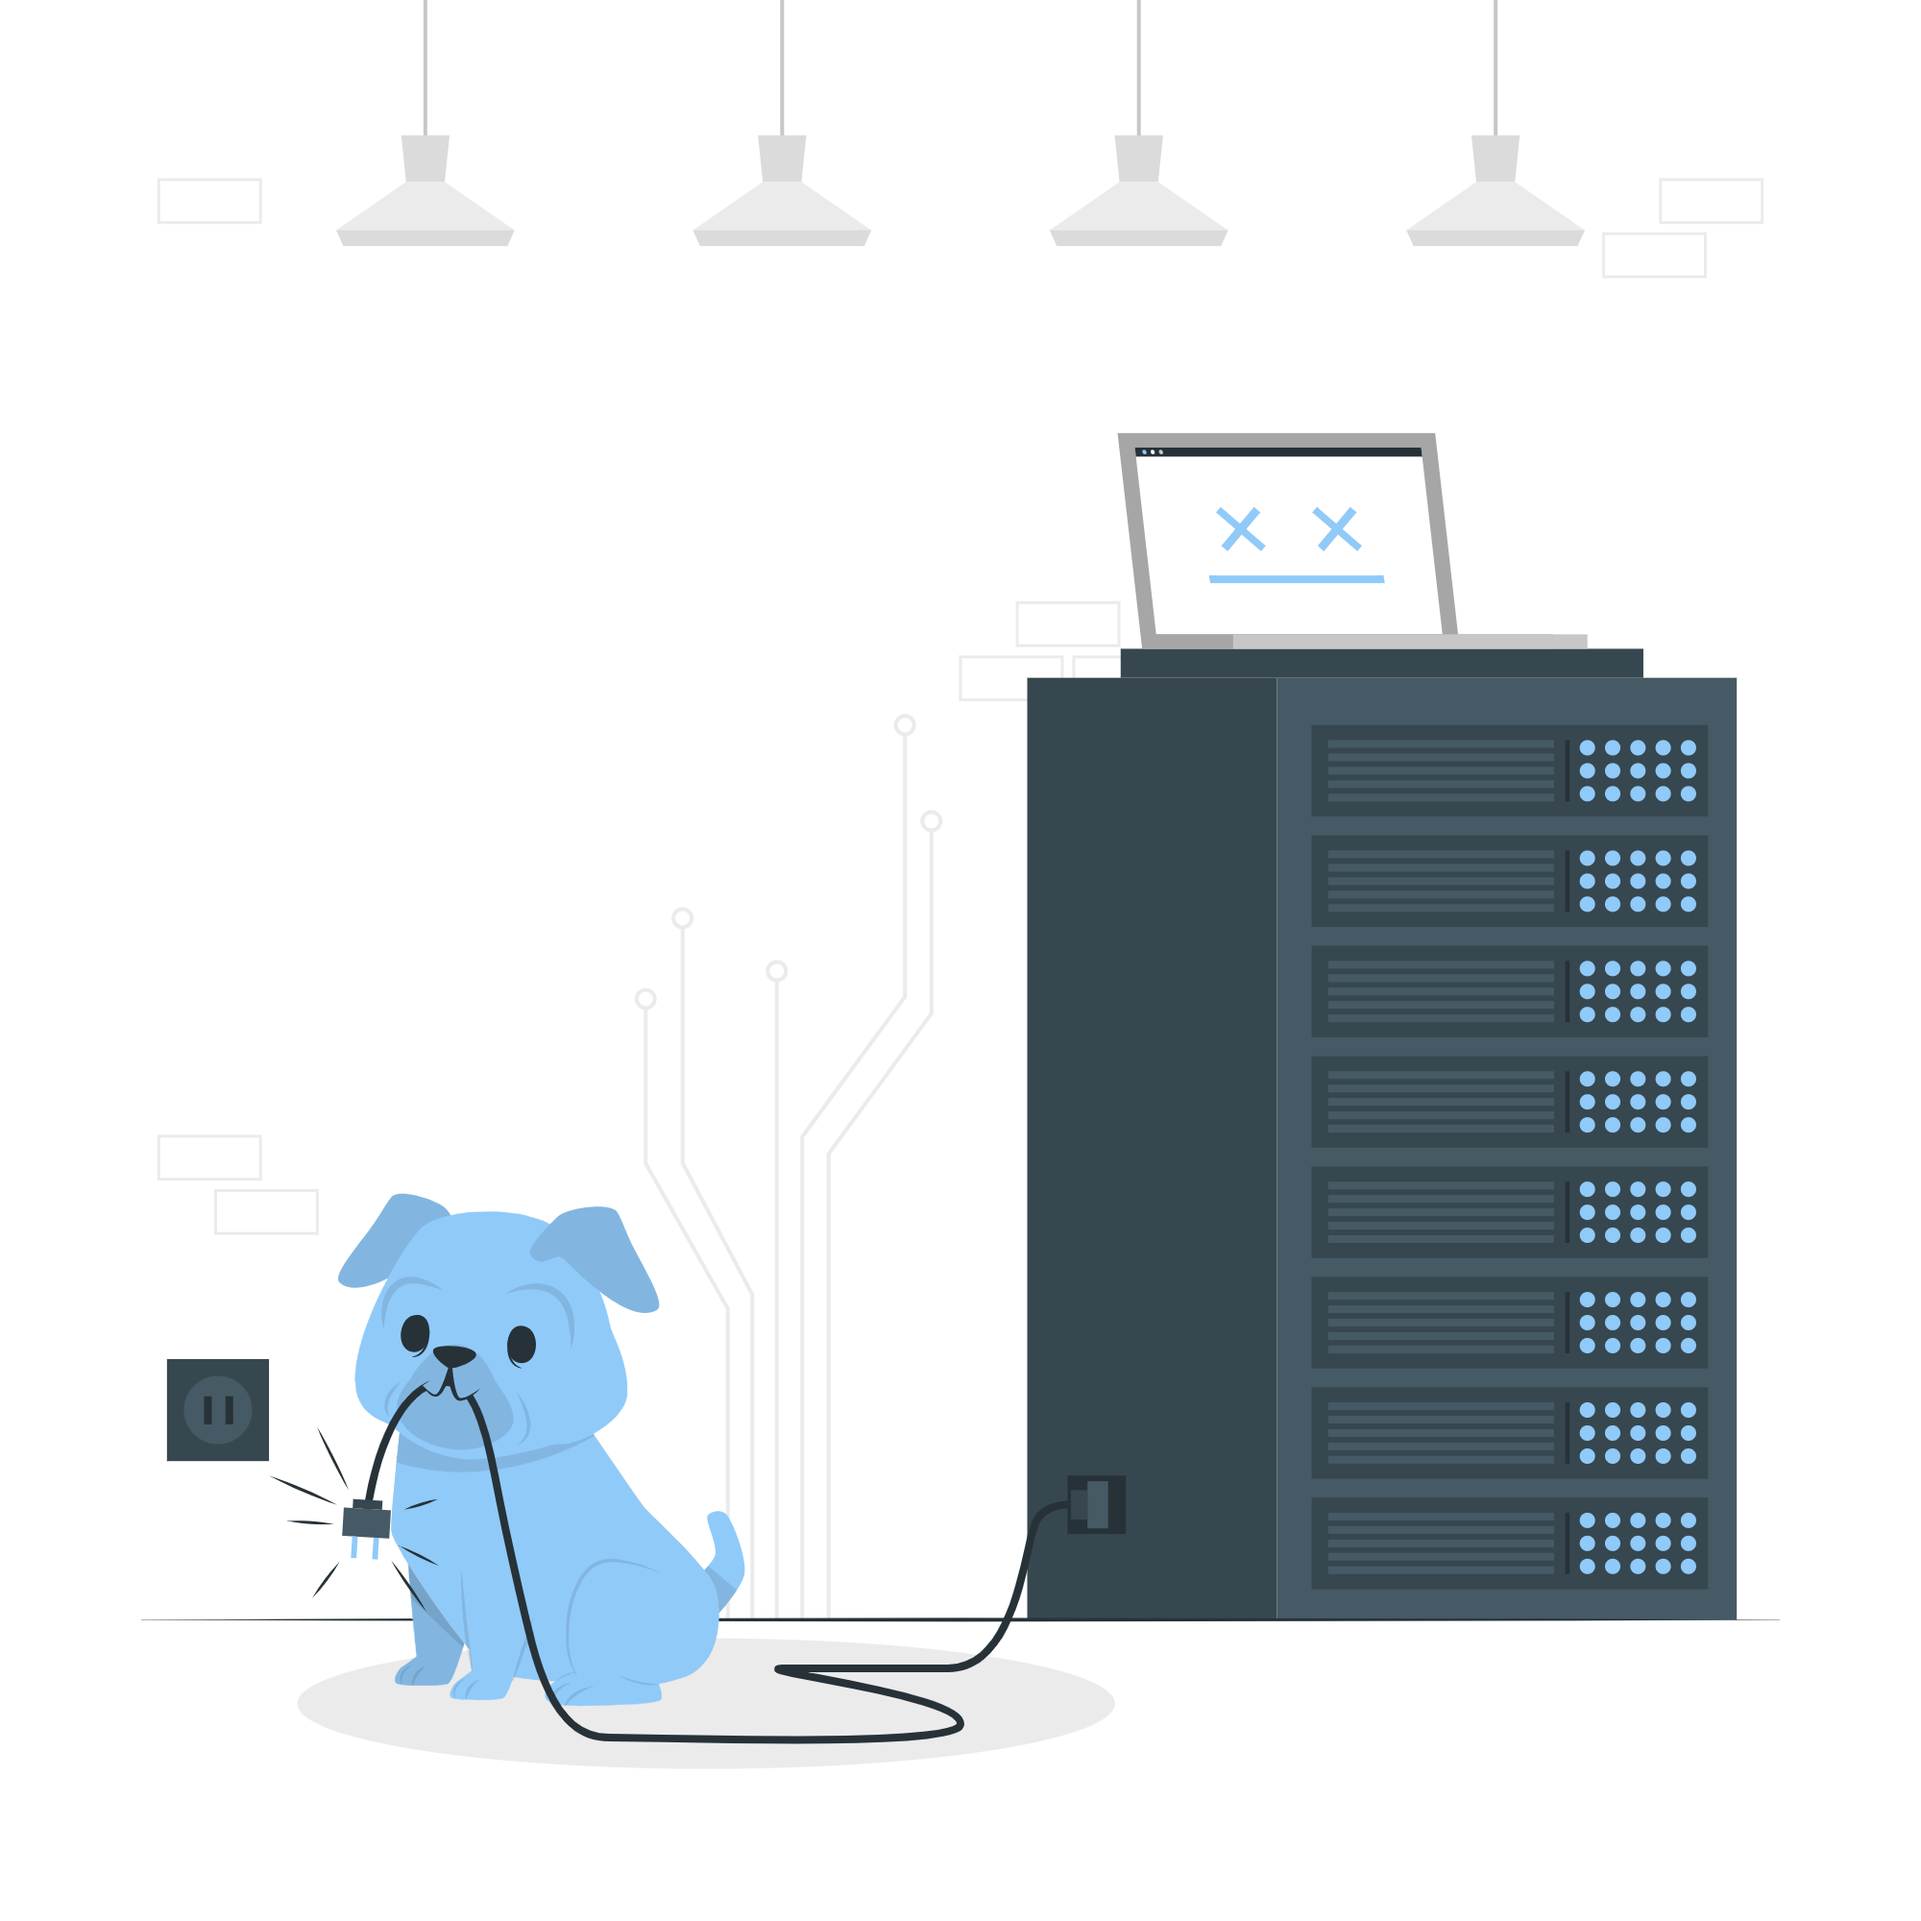
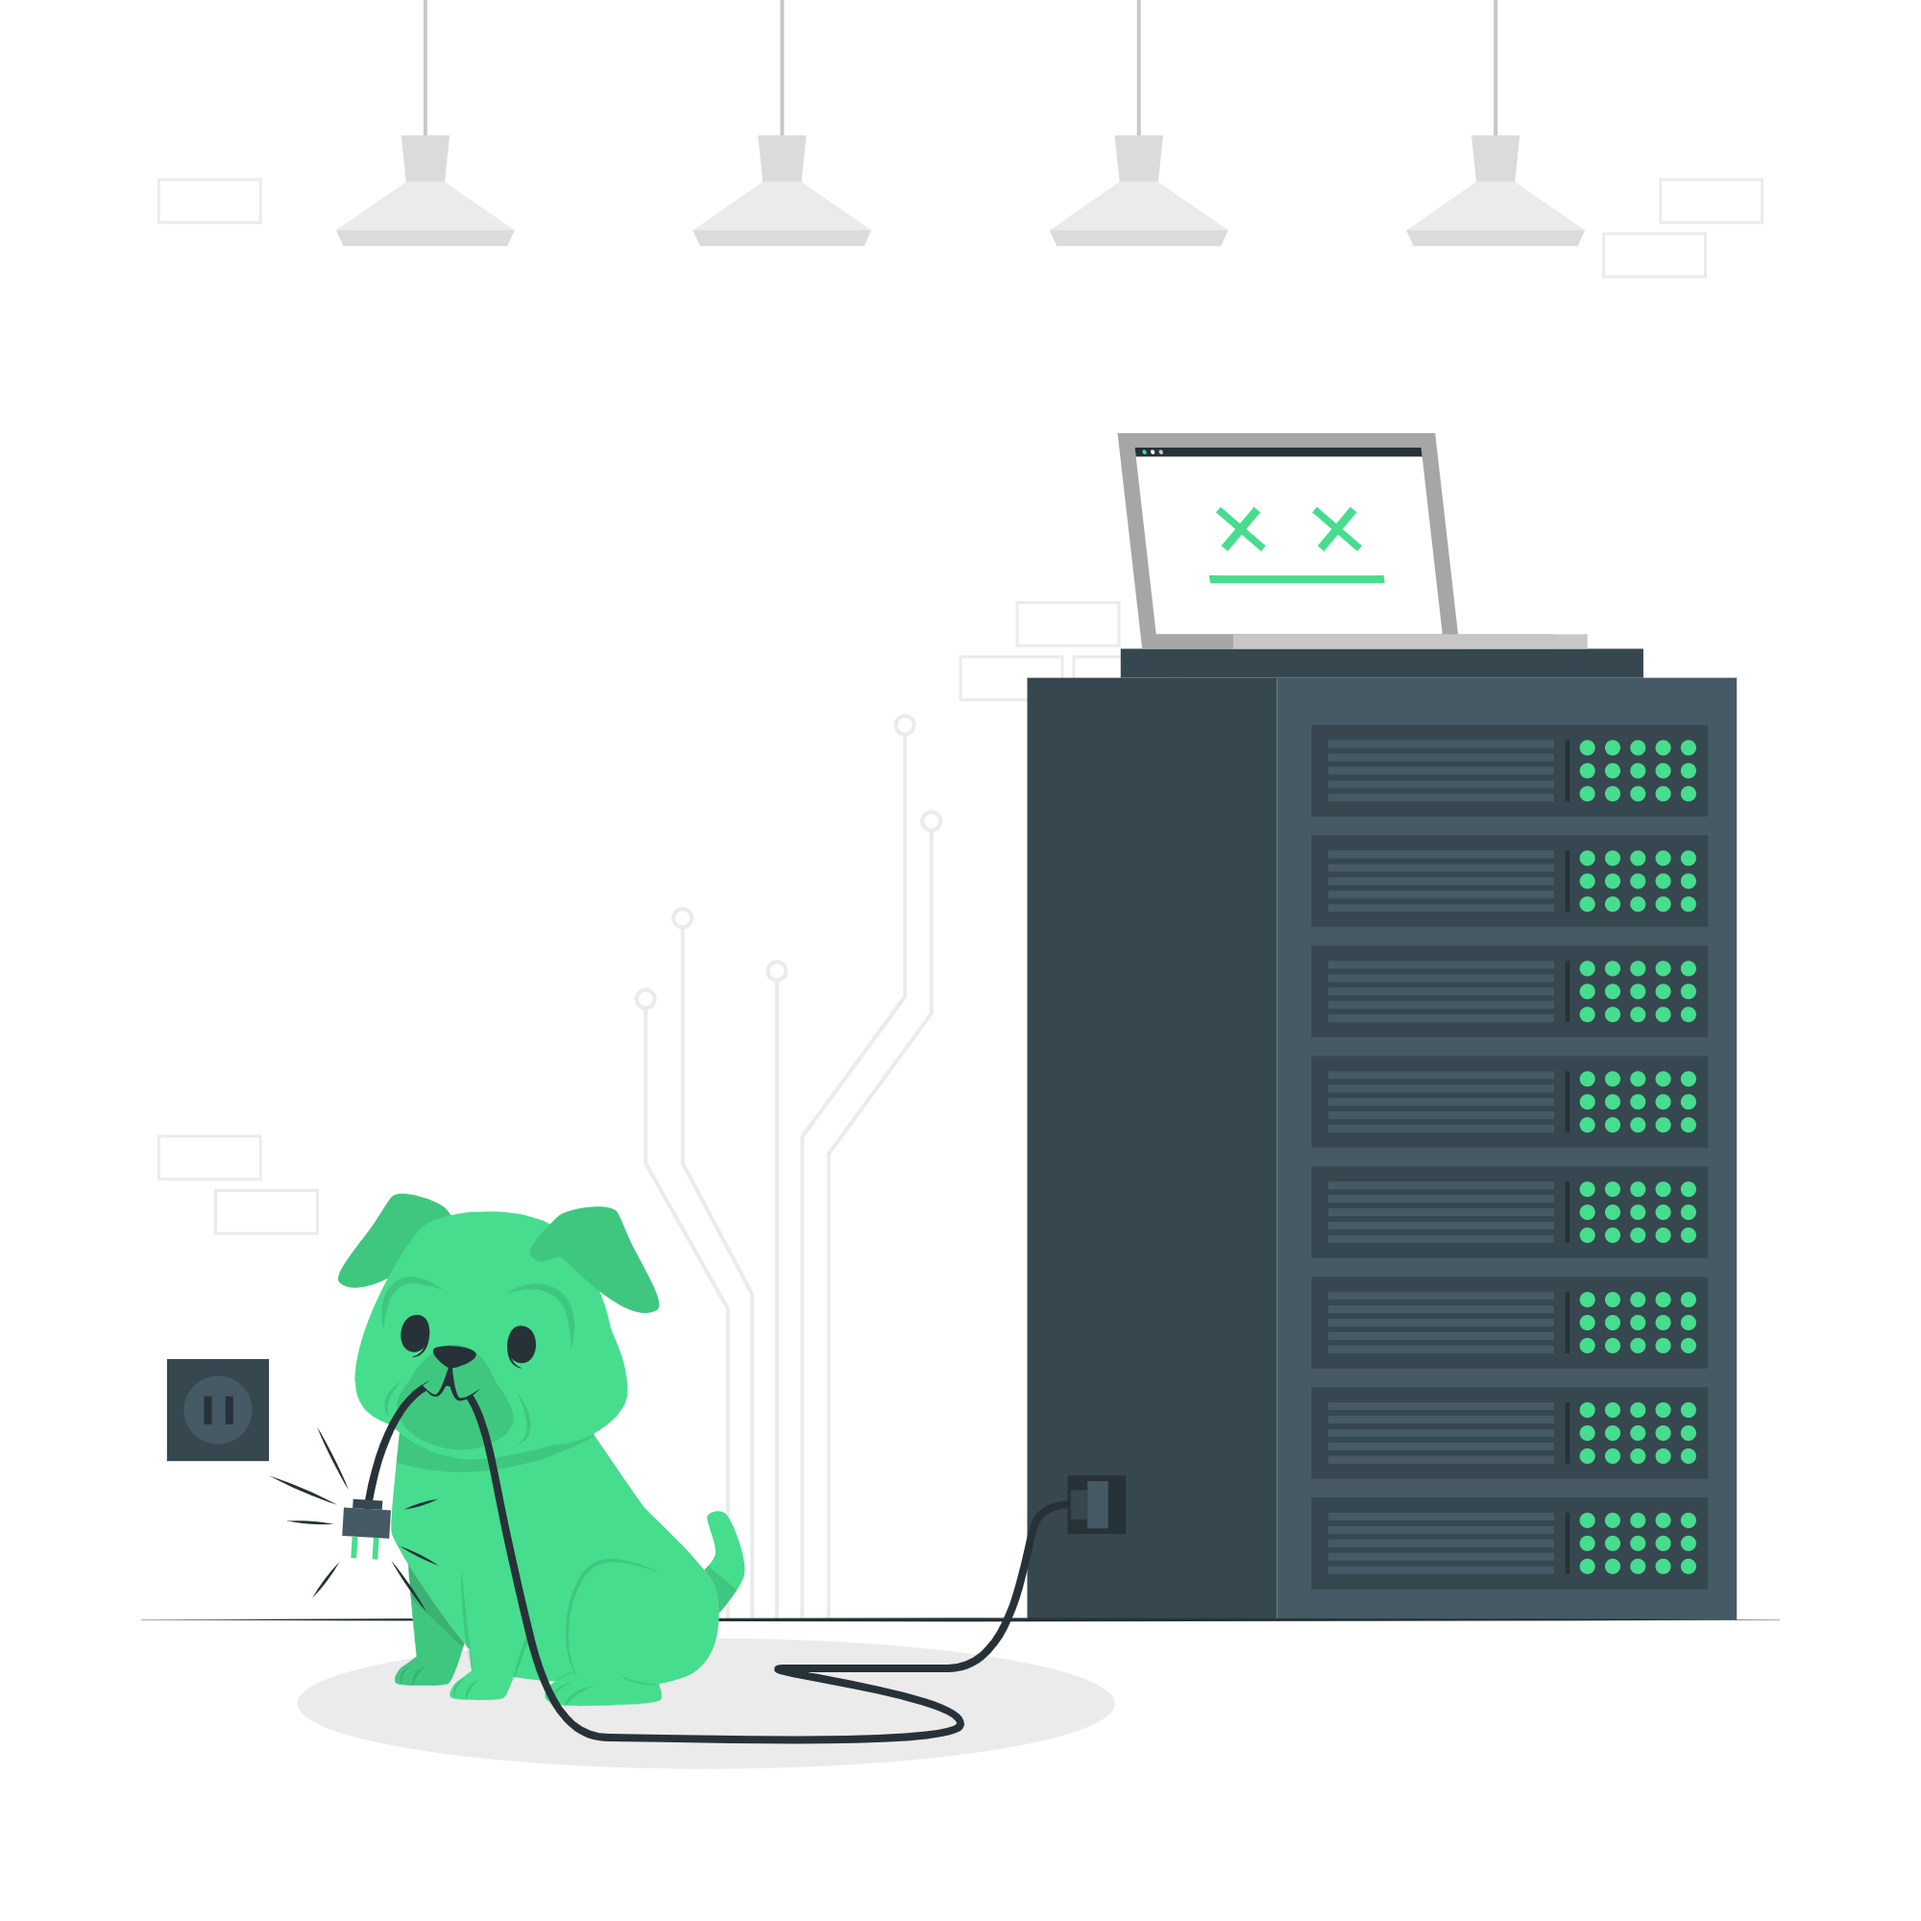
create event detail view model

Changed region(s): [[0.155, 0.62, 0.403, 0.899], [0.806, 0.372, 0.899, 0.837], [0.62, 0.248, 0.713, 0.31]]

diff --git a/lib/screens/detail/event_detail_screen.dart b/lib/screens/detail/event_detail_screen.dart
@@ -1,49 +1,41 @@
-import '../../mainComponent/custom_bottom_nav_bar.dart';
-import '../constraint.dart';
-import '../detail//components/body.dart';
+
+import 'package:evsmart/screens/enums.dart';
 import 'package:flutter/material.dart';
-import '../enums.dart';
+import '../constraint.dart';
+import 'package:evsmart/mainComponent/custom_bottom_nav_bar.dart';
+import '../home/components/event_page_body.dart';
 
-class EventDetail extends StatelessWidget{
-  static String routeName ="/detail";
+class EventBody extends StatelessWidget {
+  const EventBody({super.key, required this.eventId});
 
+  static String routeName = "/detail";
+  final String eventId;
   @override
-  Widget build(BuildContext context){
+  Widget build(BuildContext context) {
     return MaterialApp(
       debugShowCheckedModeBanner: false,
       home: Scaffold(
         appBar: AppBar(
-          actions: <Widget>[
-            Padding(
-              padding: const EdgeInsets.only(right: 20, top: 5),
-            /*  child: CircleAvatar(
-                backgroundColor: kPrimaryColor,
-                child: IconButton( icon: Icon(
-                  Icons.favorite,
-                  color: Colors.red,
-                ),
-                    onPressed: (){}
-                ),
-              ),*/
-            )
-          ],
           leading: IconButton(
             onPressed: () {
               Navigator.pop(context);
             },
-            icon: Icon(Icons.arrow_back, color: kPrimaryColor,),
+            icon: Icon(
+              Icons.arrow_back,
+              color: kPrimaryColor,
+            ),
           ),
           title: Text(
-            "",
-            style:
-            TextStyle(color: kPrimaryColor, fontWeight: FontWeight.bold),
+            "Detail",
+            style: TextStyle(color: kPrimaryColor, fontWeight: FontWeight.bold),
           ),
           centerTitle: true,
           backgroundColor: Colors.transparent,
           elevation: 0,
         ),
-        body: Body(),
-        bottomNavigationBar: const CustomBottomNavBar(selectedMenu: MenuState.favorite),
+        body: EventPageBody(eventId: eventId),
+        bottomNavigationBar:
+        const CustomBottomNavBar(selectedMenu: MenuState.favorite),
       ),
     );
   }

diff --git a/lib/screens/setting/setting_screen.dart b/lib/screens/setting/setting_screen.dart
@@ -4,12 +4,15 @@ import 'package:babstrap_settings_screen/babstrap_settings_screen.dart';
 import 'package:evsmart/mainComponent/custom_bottom_nav_bar.dart';
 import 'package:evsmart/screens/constraint.dart';
 import 'package:evsmart/screens/enums.dart';
+import 'package:evsmart/screens/myticket/myticket_screen.dart';
 import 'package:evsmart/screens/setting/components/LogoutDialog.dart';
 import 'package:evsmart/viewModel/account_viewModel.dart';
 import 'package:firebase_auth/firebase_auth.dart';
 import 'package:flutter/cupertino.dart';
 import 'package:flutter/material.dart';
 import 'package:get/get.dart';
+import 'package:line_icons/line_icon.dart';
+import 'package:line_icons/line_icons.dart';
 import 'package:scoped_model/scoped_model.dart';
 
 import '../agenda/agenda_screen.dart';
@@ -122,14 +125,17 @@ class _SettingScreenState extends State<SettingScreen> {
                   //   subtitle: "",
                   // ),
                   SettingsItem(
-                    onTap: () {},
-                    icons: Icons.history,
+                    onTap: () { Navigator.push(
+                      context,
+                      MaterialPageRoute(builder: (context) => MyTicketScreen()),
+                    );},
+                    icons: LineIcons.moneyCheck,
                     iconStyle: IconStyle(
-                      iconsColor: Colors.blue,
+                      iconsColor: kPrimaryColor,
                       backgroundColor: Colors.white,
                       withBackground: true,
                     ),
-                    title: "History",
+                    title: "My Ticket",
                     subtitle: "",
                   ),
                   /*  SettingsItem(
@@ -164,7 +170,7 @@ class _SettingScreenState extends State<SettingScreen> {
                     onTap: () {},
                     icons: Icons.language,
                     iconStyle: IconStyle(
-                      iconsColor: Colors.blue,
+                      iconsColor: kPrimaryColor,
                       withBackground: true,
                       backgroundColor: Colors.white,
                     ),

diff --git a/lib/screens/detail/components/eventDetail_page_body.dart b/lib/screens/detail/components/eventDetail_page_body.dart
@@ -1,0 +1,61 @@
+import 'dart:ffi';
+import 'package:evsmart/models/DTO/event_model.dart';
+import 'package:evsmart/widgets/event_item.dart';
+import 'package:flutter/material.dart';
+import 'package:get/get.dart';
+import 'package:scoped_model/scoped_model.dart';
+import '../../../models/DTO/event_model.dart';
+import '../../../viewModel/eventdetail_viewModel.dart';
+
+class EventPageBody extends StatefulWidget {
+  const EventPageBody({Key? key, required this.eventId})
+      : super(key: key);
+
+  final String eventId;
+
+  @override
+  _EventPageBodyState createState() => _EventPageBodyState();
+}
+
+class _EventPageBodyState extends State<EventPageBody> {
+  late Future<void> Event;
+  @override
+  void initState() {
+    super.initState();
+    Event = Get.find<EventDetailViewModel>().getEventDetail(widget.eventId);
+  }
+
+  @override
+  Widget build(BuildContext context) {
+    return Scaffold(
+        body: SingleChildScrollView(
+            padding: EdgeInsets.fromLTRB(0, 10, 0, 4), child: getTabContent()));
+  }
+
+  getTabContent() {
+    Text("Detail: ");
+    return ScopedModel<EventDetailViewModel>(
+        model: Get.find<EventDetailViewModel>(),
+        child: ScopedModelDescendant<EventDetailViewModel>(
+            builder: (context, child, model) {
+              List<Event>? courses = model.listEventDAO;
+              if (courses == null)
+                return SizedBox(
+                  height: 30,
+                );
+              else
+                return SingleChildScrollView(
+                    scrollDirection: Axis.vertical,
+                    padding: EdgeInsets.only(top: 12),
+                    child: Column(
+                        children: List.generate(
+                            courses.length,
+                                (index) => Padding(
+                                padding: const EdgeInsets.fromLTRB(8, 8, 8, 0),
+                                child: MyEventItem(
+                                  data: courses[index],
+                                  onTap: () {},
+                                )))));
+            }));
+  }
+}

diff --git a/lib/viewModel/eventdetail_viewModel.dart b/lib/viewModel/eventdetail_viewModel.dart
@@ -1,0 +1,26 @@
+import 'package:evsmart/models/DAO/event_DAO.dart';
+import 'package:evsmart/models/DTO/event_model.dart';
+import 'package:evsmart/screens/enums.dart';
+import 'package:evsmart/viewModel/base_viewModel.dart';
+
+import '../models/DAO/event_DAO.dart';
+
+class EventDetailViewModel extends BaseModel {
+  EventDAO? eventDAO;
+  List<Event>? listEventDAO;
+  EventDetailViewModel() {
+    eventDAO = EventDAO();
+  }
+
+  Future<void> getEventDetail(String eventId) async {
+    try {
+      setState(ViewStatus.Loading);
+      listEventDAO = await eventDAO?.getEvent(eventId: eventId);
+      await Future.delayed(Duration(microseconds: 500));
+      setState(ViewStatus.Completed);
+    } catch (e) {
+      listEventDAO = null;
+      setState(ViewStatus.Completed);
+    }
+  }
+}

diff --git a/lib/mainComponent/custom_bottom_nav_bar.dart b/lib/mainComponent/custom_bottom_nav_bar.dart
@@ -37,7 +37,7 @@ class CustomBottomNavBar extends StatelessWidget {
       ),
       child: SafeArea(
         child: Padding(
-          padding: const EdgeInsets.symmetric(horizontal: 15.0, vertical: 8),
+          padding: const EdgeInsets.symmetric(horizontal: 50, vertical: 8),
           child: GNav(
             rippleColor: Colors.grey[300]!,
             hoverColor: Colors.grey[100]!,
@@ -61,6 +61,7 @@ class CustomBottomNavBar extends StatelessWidget {
                       MaterialPageRoute(builder: (context) => HomeScreen()),
                     );
                   }),
+
               // GButton(
               //     icon: LineIcons.alternateCalendar,
               //     iconActiveColor: Colors.white,

diff --git a/lib/screens/constraint.dart b/lib/screens/constraint.dart
@@ -1,12 +1,12 @@
 import 'package:flutter/material.dart';
 
-const kPrimaryColor = Colors.cyan;
+const kPrimaryColor = Color(0xFF2DC575);
 const kPrimaryLightColor = Color(0xFF9A9D9D);
 
 const kPrimaryGradient = LinearGradient(
   begin: Alignment.topLeft,
   end: Alignment.bottomRight,
-  colors:[Color(0xFF58D8F6), Color(0xFF11CDEF)],
+  colors:[Color(0xFF43DE79), Color(0xFF2DC575)],
 );
 const kSecondaryColor = Color(0xFF979797);
 const kTextColor = Color(0xFF757575);

diff --git a/lib/models/DAO/event_DAO.dart b/lib/models/DAO/event_DAO.dart
@@ -17,4 +17,16 @@ class EventDAO {
     final events = Event.fromList(res.data);
     return events;
   }
+  Future<List<Event>> getEvent({
+    required final String eventId,
+    Map<String, dynamic> params = const {},
+  }) async {
+    Response res;
+    res = await request.get(
+      'events/',
+      queryParameters: {"eventId": eventId}..addAll(params),
+    );
+    final events = Event.fromList(res.data);
+    return events;
+  }
 }

diff --git a/lib/screens/agenda/components/eventAgenda_page_body.dart b/lib/screens/agenda/components/eventAgenda_page_body.dart
@@ -6,9 +6,7 @@ import 'package:evsmart/viewModel/eventAgenda_viewModel.dart';
 import 'package:evsmart/widgets/eventAgenda_item.dart';
 import 'package:flutter/material.dart';
 import 'package:get/get.dart';
-
 import 'package:line_icons/line_icon.dart';
-
 import 'package:scoped_model/scoped_model.dart';
 
 class EventAgendaPageBody extends StatefulWidget {
